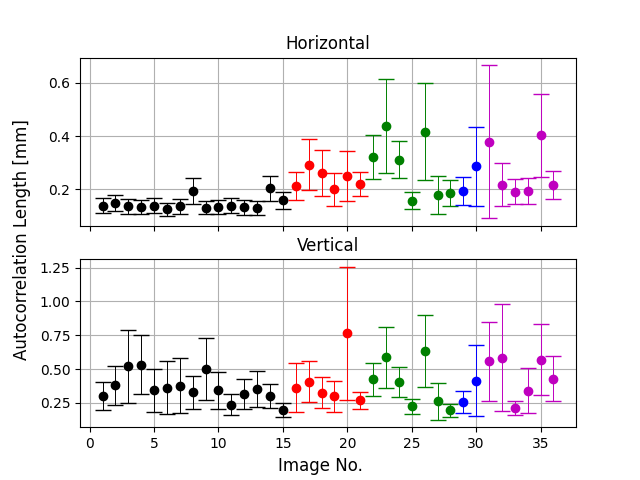
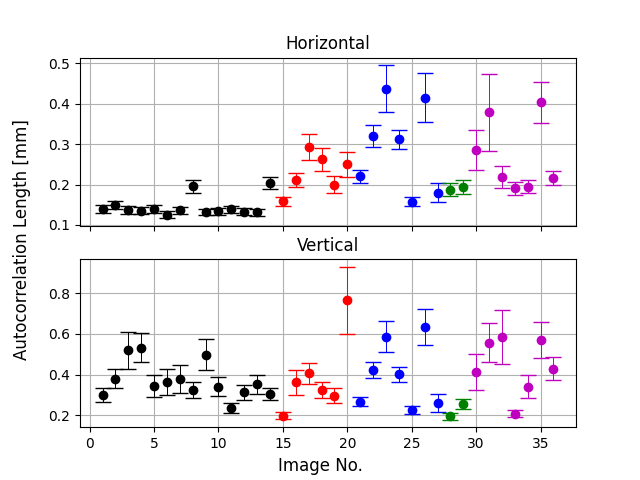
New plots?

diff --git a/nonTranposed.py b/nonTranposed.py
@@ -68,10 +68,12 @@ sigmaset = np.zeros([filesize,3])
 rhoset_t = np.zeros([filesize,3])
 lset_t = np.zeros([filesize,3])
 sigmaset_t = np.zeros([filesize,3])
+stemplot = np.zeros([filesize,4])
 
-fig1, (ax1,ax2) = plt.subplots(nrows=2, ncols=1, sharex = True)
-ax1.grid()
-ax2.grid()
+
+# fig1, (ax1,ax2) = plt.subplots(nrows=2, ncols=1, sharex = True)
+# ax1.grid()
+# ax2.grid()
 
 for nfo, filename in enumerate(os.listdir(files)):
     with open(os.path.join(files, filename), 'r') as f: # open in readonly mode
@@ -161,6 +163,10 @@ for nfo, filename in enumerate(os.listdir(files)):
         rhoset_t[fileidx] = rho_T
         lset_t[fileidx] = auflengthT
         sigmaset_t[fileidx] = uncertaintyT
+        stemplot[fileidx,0] = np.sum(auflength)/3
+        stemplot[fileidx,1] = np.sum(auflengthT)/3
+        stemplot[fileidx,2] = np.sqrt(np.sum(uncertainty**2)) /3
+        stemplot[fileidx,3] = np.sqrt(np.sum(uncertaintyT**2)) /3
 
         if fileidx < 15:
             color = 'k'
@@ -177,13 +183,13 @@ for nfo, filename in enumerate(os.listdir(files)):
         if  fileidx > 29:
             color = 'm'
             Label = 'Meltpond'
-        ax1.errorbar(fileidx+1, np.sum(auflength)/3, yerr = np.sum(uncertainty**2)**(1/2), \
-            ls = 'none', c=color,ecolor=color, fmt='o', capsize=6, elinewidth=0.7, lw = 0.5, label=Label)
-        ax2.errorbar(fileidx+1, np.sum(auflengthT)/3, yerr =np.sum(uncertaintyT**2)**(1/2), \
-            ls = 'none', c=color,ecolor=color, fmt='o', capsize=6, elinewidth=0.7, lw = 0.5, label=Label)
+        # ax1.errorbar(fileidx+1, np.sum(auflength)/3, yerr = np.sum(uncertainty**2)**(1/2) /3, \
+        #     ls = 'none', c=color,ecolor=color, fmt='o', capsize=6, elinewidth=0.7, lw = 0.5, label=Label)
+        # ax2.errorbar(fileidx+1, np.sum(auflengthT)/3, yerr =np.sum(uncertaintyT**2)**(1/2) /3, \
+        #     ls = 'none', c=color,ecolor=color, fmt='o', capsize=6, elinewidth=0.7, lw = 0.5, label=Label)
 
     except KeyError:
-        print(f"{filename[0:-4]} is not a member of test..")
+        print(f"    {filename[0:-4]} is not a member of test..")
         pass
 
     #print(RMSE)
@@ -197,24 +203,15 @@ for nfo, filename in enumerate(os.listdir(files)):
     toc = time.perf_counter()
     print(f"    Done in {time.strftime('%M:%S', time.gmtime(toc - tic))}")
     
-ax1.set_title('Horizontal')
-ax2.set_title('Vertical')
-fig1.supxlabel('Image No.')
-fig1.supylabel('Autocorrelation Length [mm]')
-fig1.savefig('Image_No_L')
-fig1.legend()
+# ax1.set_title('Horizontal')
+# ax2.set_title('Vertical')
+# fig1.supxlabel('Image No.')
+# fig1.supylabel('Autocorrelation Length [mm]')
+# fig1.savefig('Image_No_L')
+# fig1.legend()
 
 print('Postprocessing...')
-
-compset = np.hstack([rhoset,lset,sigmaset,rhoset_t,lset_t,sigmaset_t])
-print(f"Shape of compset = {np.shape(compset)}")
-np.savetxt("rhoplotdata.txt",compset,delimiter=',',newline='\n')
-
-#-----------------------------------------------------------------
-# L compared to depth - Kan udkommenteres ->
-print('Postprocessing...')
-
-compset = np.hstack([rhoset,lset,sigmaset,rhoset_t,lset_t,sigmaset_t])
+compset = np.hstack([rhoset,lset,sigmaset,rhoset_t,lset_t,sigmaset_t, stemplot])
 print(f"Shape of compset = {np.shape(compset)}")
 np.savetxt("rhoplotdata.txt",compset,delimiter=',',newline='\n')
 

diff --git a/DensityPlot.py b/DensityPlot.py
@@ -52,6 +52,32 @@ def Density_plot(compdata,splitter,texts):
 
 
 
+    stemplot = compdata[:,18:22]
+    colmap = np.array(['k','r','b','g','m'])
+    idx = np.arange(np.size(stemplot,0)) + 1
+    idxback = 0
+
+    fig1, (ax1,ax2) = plt.subplots(nrows=2, ncols=1, sharex = True)
+    ax1.grid()
+    ax2.grid()
+
+
+    for i in range(5):
+        ax1.errorbar(idx[idxback:splitter[i]], stemplot[idxback:splitter[i],0], yerr=stemplot[idxback:splitter[i],2], ls = 'none', c=colmap[i],ecolor=colmap[i], fmt='o', capsize=6, elinewidth=0.7, lw = 0.5, label=funcnames[i])
+        ax2.errorbar(idx[idxback:splitter[i]], stemplot[idxback:splitter[i],1], yerr=stemplot[idxback:splitter[i],3], ls = 'none', c=colmap[i],ecolor=colmap[i], fmt='o', capsize=6, elinewidth=0.7, lw = 0.5, label=funcnames[i])
+        idxback = splitter[i]
+
+    ax1.set_title('Horizontal')
+    ax2.set_title('Vertical')
+    fig1.supxlabel('Image No.')
+    fig1.supylabel('Autocorrelation Length [mm]')
+    fig1.savefig('Image_No_L')
+    ax1.legend()
+    fig1.savefig('StemplotHV.png',dpi=300,format='png')
+    plt.close()
+
+
+
 if __name__ == "__main__":
 
     compdata = np.loadtxt('rhoplotdata.txt',delimiter=',')
